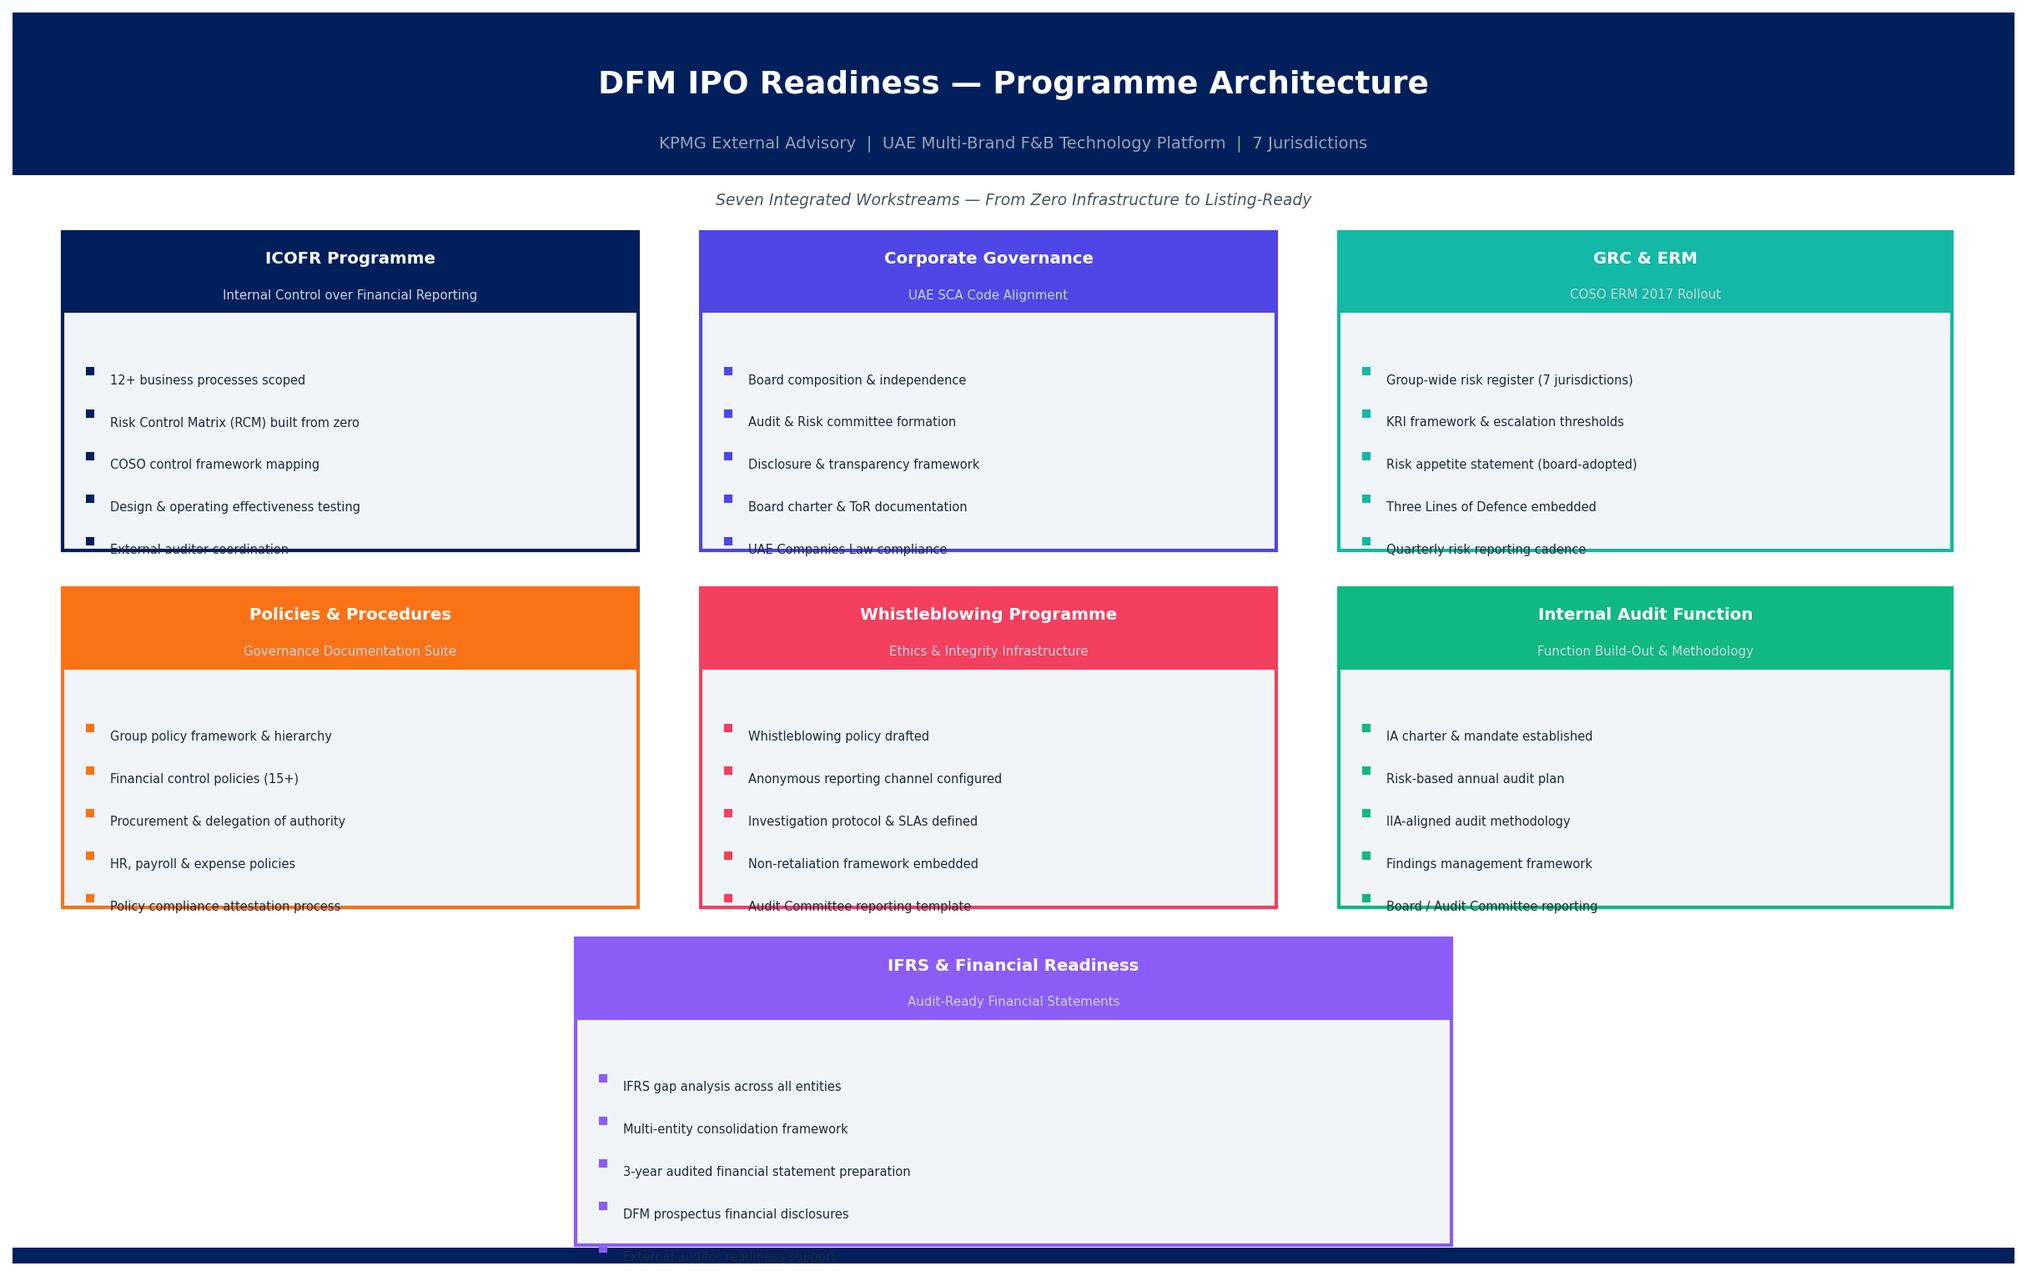
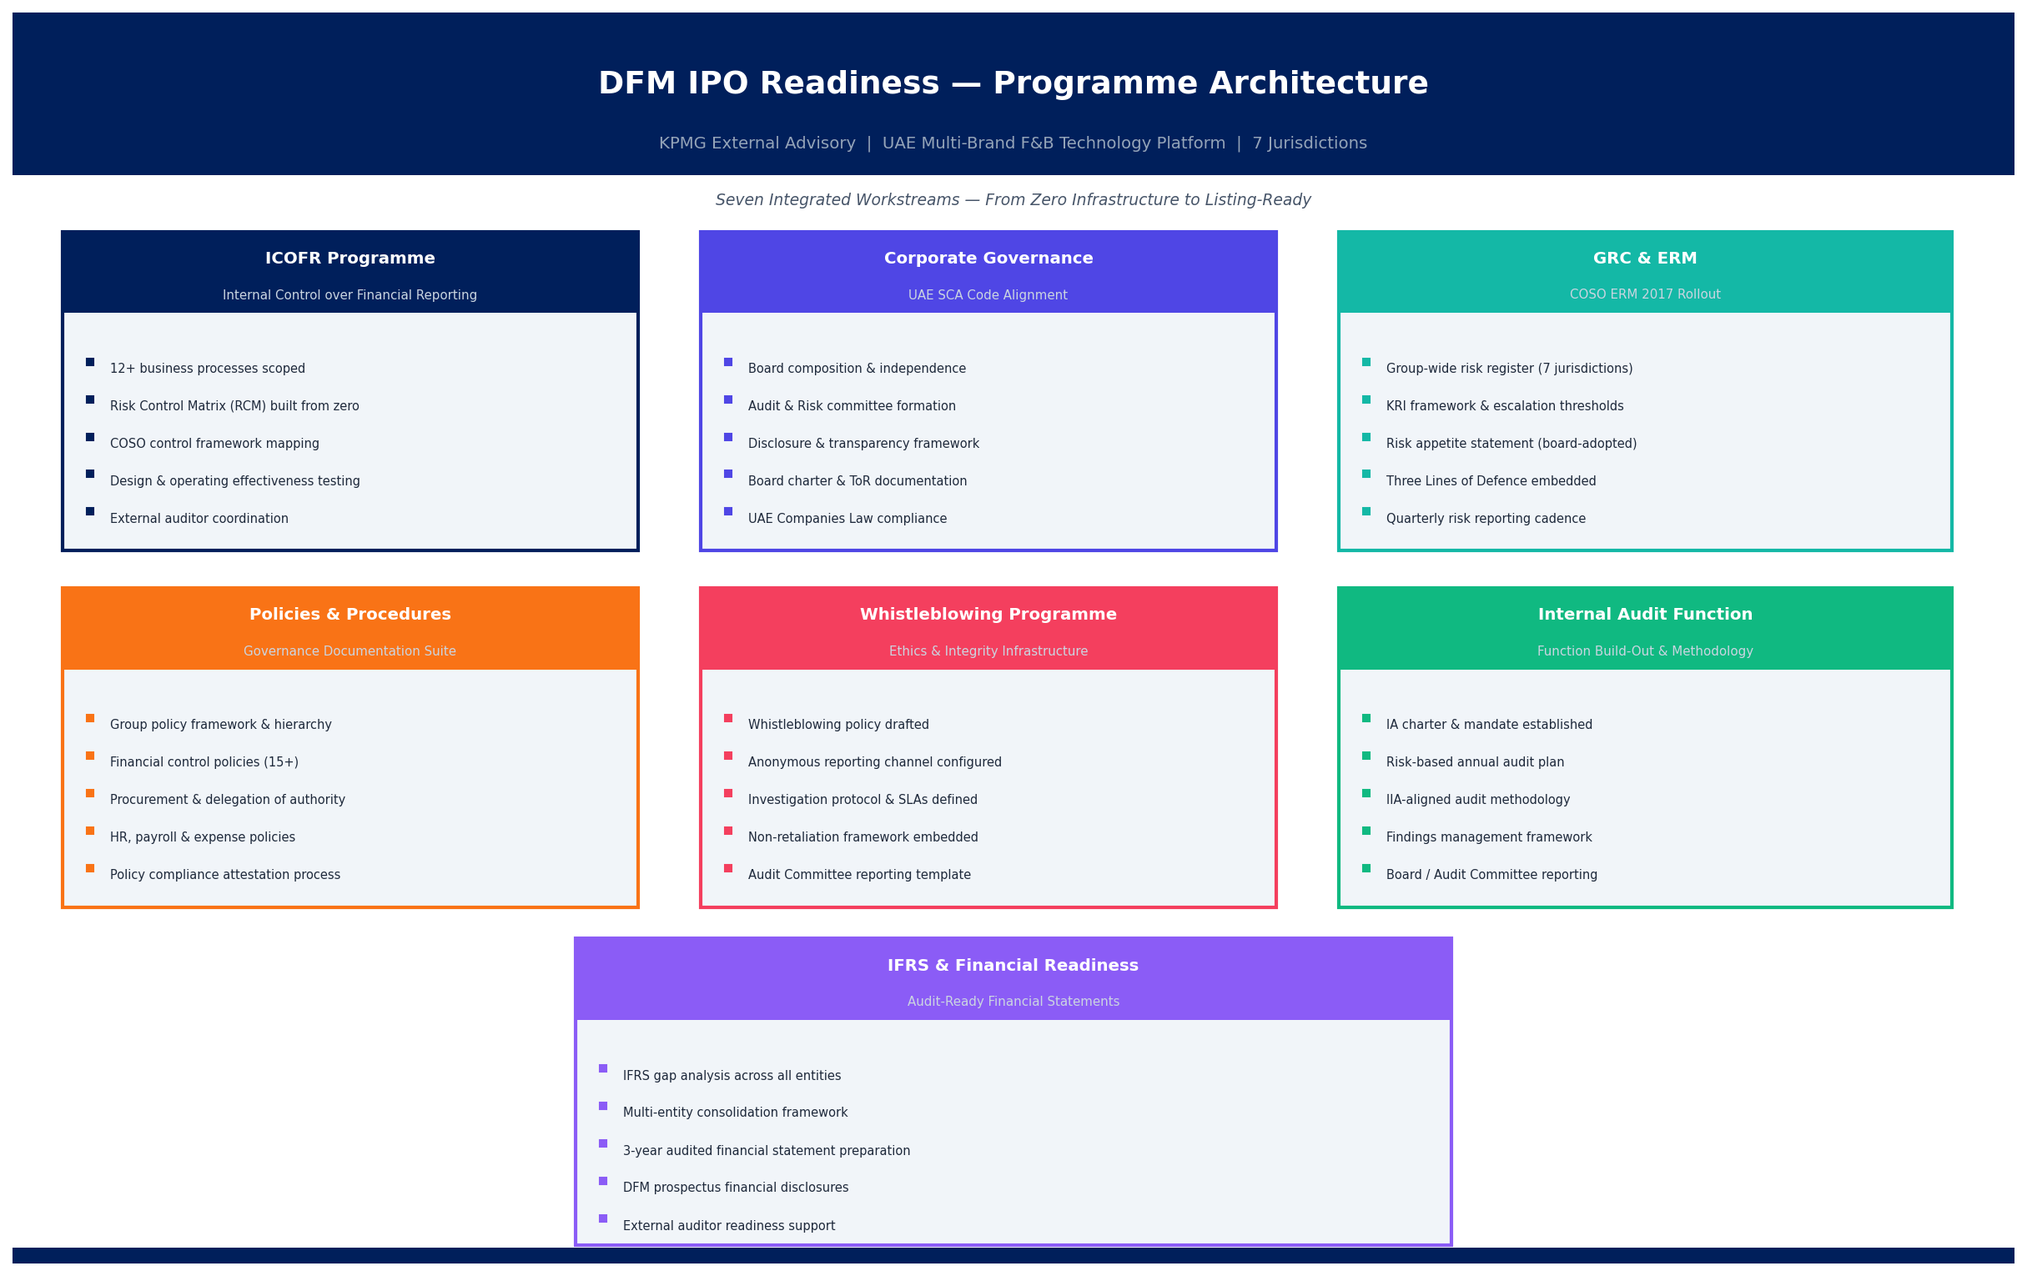
Add engagement duration to all 16 projects; fix chart text overflow
- Add duration field to all projects in projects.js (range: 6 weeks to 24 months)
- Show duration on ProjectCard.jsx (homepage), category listing cards, and
  project detail page sidebar
- Fix programme-architecture.png: tighten bullet spacing (0.30) to keep
  all text inside card containers with bottom clearance

diff --git a/src/data/projects.js b/src/data/projects.js
@@ -4,6 +4,7 @@ export const projects = [
     title: 'KSA Real Estate Fraud Detection (Audit 4.0)',
     description: 'Monitoring SAR 500M+ Capex and OpEx across a mid-sized KSA real estate firm\'s residential and commercial portfolio (client identity withheld under engagement confidentiality). Traditional audits were missing multivariate fraud patterns, ghost tenancies, and VAT leakage in the 15% VAT regime. Deployed an automated Forensic Risk Engine in R to surface the top 1% high-risk transactions and recover SAR 3.2M annually.',
     categories: ['Fraud Forensics'],
+    duration: '3 months',
     impact: 'SAR 3.2M direct revenue recovery — 85% reduction in manual audit review time — 82% decrease in Variation Order threshold evasion',
     techStack: ['R', 'ggplot2', 'StringDist', 'Z-Score Modelling', 'Fuzzy Matching', 'VAT Analytics'],
     image: '/portfolio_my/images/projects/ksa-real-estate-fraud/methodology.png',
@@ -35,6 +36,7 @@ export const projects = [
     title: 'ML-Powered Fraud Detection',
     description: 'A GCC food & beverage platform losing revenue to manager-level fraud across 70+ locations needed a systematic solution that went beyond spot-checking. Built an ML detection engine on 2.3M+ monthly transactions, recovering AED 3.2M annually and reducing incidents by 78%.',
     categories: ['Fraud Forensics'],
+    duration: '5 months',
     impact: '78% Reduction in Fraud Incidents (2.3M monthly transactions)',
     techStack: ['Python', 'scikit-learn', 'Pandas', 'Excel Automation'],
     image: '/portfolio_my/images/projects/fraud-detection/fraud-dashboard.webp',
@@ -52,6 +54,7 @@ export const projects = [
     title: 'DFM IPO Readiness — UAE Multi-Brand F&B Technology Platform',
     description: 'A UAE multi-brand F&B technology platform targeting a Dubai Financial Market listing had no governance infrastructure, no ICOFR framework, no documented policies, and no internal audit function. Engaged as KPMG external advisor to oversee and drive the company\'s end-to-end IPO readiness programme — covering ICOFR build-out, UAE SCA corporate governance alignment, GRC and ERM implementation, policies and procedures development, whistleblowing programme design, and the establishment of an internal audit function from scratch. Programme spanned 7 jurisdictions and ran in parallel with day-to-day commercial operations.',
     categories: ['Corporate Governance', 'Audit Transformation'],
+    duration: '18 months',
     impact: 'Seven integrated workstreams delivered — ICOFR, governance, GRC, policies, whistleblowing, internal audit function, and IFRS readiness — across a 7-jurisdiction, multi-brand platform targeting DFM listing',
     techStack: ['UAE SCA Regulations', 'DFM Listing Rules', 'COSO ICOFR', 'IFRS', 'UAE Companies Law', 'COSO ERM 2017', 'IIA Standards', 'ISO 37002:2021', 'Three Lines of Defence'],
     image: '/portfolio_my/images/projects/dfm-ipo-readiness/programme-architecture.png',
@@ -89,6 +92,7 @@ export const projects = [
     title: 'Audit Findings Management System',
     description: 'A GCC multi-entity operation was running audit findings on manual spreadsheets — no aging visibility, no escalation triggers, no audit committee reporting. Built a Python-based tracking system that replaced the spreadsheets entirely, cut preparation time by 70%, and gave the board real-time remediation status for the first time.',
     categories: ['Audit Transformation'],
+    duration: '6 weeks',
     impact: '70% reduction in audit preparation cycle time — board-ready status reporting automated',
     techStack: ['Python', 'YAML', 'IIA Compliance', 'openpyxl'],
     image: '/portfolio_my/images/projects/audit-tools/findings-tracker.webp',
@@ -106,6 +110,7 @@ export const projects = [
     title: 'Executive Financial Dashboard',
     description: 'Proprietary financial reporting engine providing real-time board-level visibility into capital leaks, variance analysis, and recovery tracking.',
     categories: ['Strategic Dashboards'],
+    duration: '8 weeks',
     impact: '85% automated reporting efficiency achieved',
     techStack: ['xlsxwriter', 'Pandas', 'Power BI', 'Python'],
     image: '/portfolio_my/images/projects/finance-dashboard/executive-dashboard.webp',
@@ -123,6 +128,7 @@ export const projects = [
     title: 'Tadawul IPO Readiness — GCC Premium Brand',
     description: 'Led end-to-end IPO readiness transformation for a GCC premium brand targeting Tadawul listing. Delivered a 24-month programme covering ICOFR implementation, CMA regulatory compliance, governance restructuring, and investor-grade financial documentation.',
     categories: ['Corporate Governance', 'Audit Transformation'],
+    duration: '24 months',
     impact: 'SAR 500M+ capital raise target — full ICOFR certification across 14 business processes',
     techStack: ['COSO ICOFR', 'CMA Regulations', 'Tadawul Listing Rules', 'IFRS', 'Big 4 Co-sourcing'],
     image: '/portfolio_my/images/projects/tadawul-ipo-readiness/icofr-dashboard.svg',
@@ -140,6 +146,7 @@ export const projects = [
     title: 'Enterprise Audit Management Platform',
     description: 'A diversified GCC group ran its audit function across multiple entities with no unified view — audit plans lived in email threads, board reports were built manually each quarter, and no one could answer "what is the current audit status across the group?" Built an integrated platform that gave the audit director, management, and board a single, real-time picture.',
     categories: ['Audit Transformation'],
+    duration: '3 months',
     impact: 'Full audit lifecycle automated across multi-entity operations — from annual plan to board pack, zero manual assembly',
     techStack: ['Python', 'openpyxl', 'python-pptx'],
     image: '/portfolio_my/images/projects/enterprise-audit-tracker/audit-dashboard.webp',
@@ -157,6 +164,7 @@ export const projects = [
     title: 'Food Safety Risk Assessment Framework',
     description: 'Advanced risk management framework for F&B operations with heat mapping, control validation, and compliance tracking across 70+ locations.',
     categories: ['Audit Transformation', 'Enterprise Risk'],
+    duration: '4 months',
     impact: 'End-to-end food safety risk framework deployed across 70+ locations with executive risk reporting',
     techStack: ['Python', 'Risk Analytics', 'Compliance Frameworks'],
     image: '/portfolio_my/images/projects/food-safety-risk/risk-heatmap.webp',
@@ -174,6 +182,7 @@ export const projects = [
     title: 'Forensic Fraud Investigation Toolkit',
     description: 'Professional forensic analysis toolkit for major fraud cases with control failure mapping, evidence tracking, and litigation support documentation.',
     categories: ['Fraud Forensics'],
+    duration: '3 months',
     impact: 'Multi-case fraud investigation support — control failure mapping and litigation-ready documentation',
     techStack: ['Python', 'Excel Automation', 'Forensic Accounting'],
     image: '/portfolio_my/images/projects/fraud-cases/fraud-analysis.webp',
@@ -191,6 +200,7 @@ export const projects = [
     title: 'Multi-Location Audit Compliance System',
     description: 'With 70+ restaurant locations each running their own interpretation of compliance, the group had no way to compare, rank, or hold locations accountable. Built a standardised audit system that replaced inconsistent spot-checks with scored, automated assessments — giving operations management a real compliance league table for the first time.',
     categories: ['Audit Transformation'],
+    duration: '3 months',
     impact: 'Compliance scores comparable across 70+ locations — underperforming sites identified and actioned within audit cycle',
     techStack: ['Python', 'openpyxl', 'Audit Standards'],
     image: '/portfolio_my/images/projects/restaurant-audit/audit-checklist.webp',
@@ -208,6 +218,7 @@ export const projects = [
     title: 'Nomu Parallel Market Listing — KSA Healthcare Subsidiary',
     description: 'As Group Internal Audit Director, led listing readiness for a KSA healthcare subsidiary of a diversified GCC holding group targeting the Tadawul Nomu Parallel Market. Coordinated governance, ICOFR, and regulatory submissions across the holding and subsidiary structures.',
     categories: ['Corporate Governance', 'Audit Transformation'],
+    duration: '9 months',
     impact: 'Subsidiary successfully structured for parallel market listing within group governance framework',
     techStack: ['Tadawul Nomu Rules', 'COSO', 'ICOFR', 'CMA Regulations', 'Holding Group Governance'],
     image: '/portfolio_my/images/projects/nomu-listing-readiness/governance-structure.svg',
@@ -225,6 +236,7 @@ export const projects = [
     title: 'Enterprise Risk Management Programme — Multi-Brand F&B Platform (8 Countries)',
     description: 'Designed and implemented a complete COSO ERM 2017 / ISO 31000 framework for a UAE-based, technology-enabled cloud kitchen platform operating 100+ kitchens across 8 countries. Delivered 12 production-ready tools — risk register, KRI dashboard, BCP tracker, and board reporting suite — alongside a board-adopted risk appetite statement and embedded Three Lines of Defence model.',
     categories: ['Enterprise Risk', 'Corporate Governance'],
+    duration: '8 months',
     impact: '12 tools delivered — 50+ risks mapped, 28 KRIs live, board risk appetite formally adopted across 8 jurisdictions',
     techStack: ['COSO ERM 2017', 'ISO 31000:2018', 'ISO 22301', 'Excel', 'Word', 'Three Lines of Defence'],
     image: '/portfolio_my/images/projects/coso-erm/risk-heatmap.svg',
@@ -262,6 +274,7 @@ export const projects = [
     title: 'Corporate Governance Framework & Manual — KSA Holding Group',
     description: 'As Group Internal Audit Director, led a comprehensive corporate governance upgrade for a KSA multi-sector private holding group. Delivered a full governance manual, board and committee structures, delegation of authority matrix, and Three Lines of Defence model aligned to Saudi Companies Law and international best practice.',
     categories: ['Corporate Governance'],
+    duration: '5 months',
     impact: 'Group-wide governance manual adopted by board — covering holding company and all operating subsidiaries',
     techStack: ['Saudi Companies Law', 'IIA Three Lines Model', 'SOCPA Standards', 'King IV', 'Board Governance'],
     image: '/portfolio_my/images/projects/holding-group-governance/governance-framework.svg',
@@ -279,6 +292,7 @@ export const projects = [
     title: 'ICAEW Audit Report System',
     description: 'An ICAEW-regulated audit team was spending 60–70% of engagement time on workpaper preparation and report formatting rather than actual audit work. Built an automated reporting system aligned to ICAEW standards that cut document preparation time by two-thirds — freeing the team to focus on judgement, not formatting.',
     categories: ['Audit Transformation'],
+    duration: '6 weeks',
     impact: 'Audit documentation time cut by ~65% — ICAEW standards embedded automatically, zero manual formatting',
     techStack: ['Python', 'ICAEW Standards', 'Report Automation'],
     image: '/portfolio_my/images/projects/icaew-audit/audit-report.webp',
@@ -296,6 +310,7 @@ export const projects = [
     title: 'Whistleblowing System Design — UAE Mid-Market Company',
     description: 'A UAE mid-sized company had a whistleblowing channel in name only — no formal policy, no investigation protocol, no controls over who could access submitted reports, and no assurance that reporters were genuinely protected. Engaged to design the system end-to-end: from policy architecture and access governance through to anonymity assurance and organisation-wide rollout.',
     categories: ['Corporate Governance'],
+    duration: '10 weeks',
     impact: 'End-to-end whistleblowing system designed and rolled out — anonymity assured, access controls restructured, investigation framework embedded',
     techStack: ['Whistleblowing Policy Design', 'Investigation Policy', 'Access Control Review', 'UAE Labour Law', 'ISO 37002:2021', 'Three Lines of Defence'],
     image: '/portfolio_my/images/projects/whistleblowing-system-uae/system-architecture.svg',
@@ -323,6 +338,7 @@ export const projects = [
     title: 'Ethics & Compliance Programme — UAE Multi-Country Cloud Kitchen Platform',
     description: 'In-house at a UAE-headquartered, technology-enabled cloud kitchen platform operating across 7 countries, led the end-to-end design and deployment of the group\'s ethics and compliance programme. Scope covered sourcing and onboarding a third-party ethics platform through a structured vendor evaluation, launching three distinct programmes — whistleblowing, executive voluntary disclosures, and annual conflict-of-interest acknowledgements — and embedding awareness across all offices and kitchen operations globally.',
     categories: ['Corporate Governance'],
+    duration: '6 months',
     impact: 'Full ethics programme live across 7 countries — platform sourced and onboarded, three programmes launched, organisation-wide training and awareness embedded',
     techStack: ['EthicsPoint', 'Third-Party Risk Assessment', 'ISO 37002:2021', 'COI Framework Design', 'Multi-Jurisdiction Rollout', 'Training Programme Design'],
     image: '/portfolio_my/images/projects/ethics-compliance-programme/programme-overview.svg',
@@ -352,6 +368,7 @@ export const projects = [
     title: 'Whistleblowing Programme — International QSR Leader',
     description: 'An internationally recognised quick service restaurant operator had no formal mechanism for staff to raise concerns — no policy, no channel, no investigation process. Designed and implemented a pragmatic whistleblowing programme from scratch: an email-based reporting channel backed by a written policy, an investigation framework, and organisation-wide training. The programme demonstrated immediate impact — a report submitted through the channel directly led to the discovery of a SAR 12 million fraud within months of launch.',
     categories: ['Corporate Governance', 'Fraud Forensics'],
+    duration: '8 weeks',
     impact: 'SAR 12M fraud discovered directly through the whistleblowing channel — programme designed and embedded from scratch with no prior infrastructure',
     techStack: ['Whistleblowing Policy Design', 'Investigation Framework', 'Training Programme Design', 'KSA Labour Law', 'Anonymous Reporting Channel'],
     image: '/portfolio_my/images/projects/qs-whistleblowing-programme/programme-design.svg',
@@ -375,6 +392,7 @@ export const projects = [
     title: 'Whistleblowing Awareness Revival — KSA Diversified Conglomerate',
     description: 'A KSA-headquartered diversified conglomerate had a whistleblowing programme on paper but it had become largely unknown to staff — low usage, no active promotion, and no embedding across its portfolio companies. Engaged to diagnose the effectiveness gap and design a comprehensive awareness programme that re-established the channel as a functional, trusted mechanism across the group portfolio.',
     categories: ['Corporate Governance'],
+    duration: '6 weeks',
     impact: 'Dormant whistleblowing programme revived and re-embedded — awareness campaign designed and deployed across group portfolio companies',
     techStack: ['Programme Effectiveness Review', 'Awareness Campaign Design', 'ISO 37002:2021', 'Stakeholder Communication', 'Multi-Entity Rollout'],
     image: '/portfolio_my/images/projects/ethics-awareness-revival/awareness-framework.svg',

diff --git a/src/components/ProjectCard.jsx b/src/components/ProjectCard.jsx
@@ -1,6 +1,6 @@
 import React from 'react';
 import { motion } from 'framer-motion';
-import { ArrowUpRight, ShieldCheck, Database, BrainCircuit, BarChart3, Binary, Landmark, Scale } from 'lucide-react';
+import { ArrowUpRight, ShieldCheck, Database, BrainCircuit, BarChart3, Binary, Landmark, Scale, Clock } from 'lucide-react';
 
 const icons = {
   'Fraud Forensics': <BrainCircuit className="w-8 h-8 text-[#001F5B]" />,
@@ -11,7 +11,7 @@ const icons = {
   'Enterprise Risk': <Scale className="w-8 h-8 text-[#001F5B]" />,
 };
 
-const ProjectCard = ({ id, title, description, category, impact, techStack, image, logo, index }) => {
+const ProjectCard = ({ id, title, description, category, duration, impact, techStack, image, logo, index }) => {
   return (
     <motion.article
       initial={{ opacity: 0, y: 30 }}
@@ -43,9 +43,17 @@ const ProjectCard = ({ id, title, description, category, impact, techStack, imag
               )}
             </div>
           </div>
-          <span className="text-[10px] font-black uppercase tracking-[0.3em] bg-[#001F5B]/10 text-[#001F5B] px-4 py-1.5 rounded-full border border-[#001F5B]/20">
-            {category}
-          </span>
+          <div className="flex flex-col items-end gap-1.5">
+            <span className="text-[10px] font-black uppercase tracking-[0.3em] bg-[#001F5B]/10 text-[#001F5B] px-4 py-1.5 rounded-full border border-[#001F5B]/20">
+              {category}
+            </span>
+            {duration && (
+              <span className="flex items-center gap-1 text-[10px] font-bold text-slate-400 uppercase tracking-widest">
+                <Clock className="w-3 h-3" />
+                {duration}
+              </span>
+            )}
+          </div>
         </div>
 
       <h3 className="text-2xl font-black text-slate-900 mb-4 leading-tight group-hover:text-[#001F5B] transition-colors">

diff --git a/scripts/gen_dfm_infographics.py b/scripts/gen_dfm_infographics.py
@@ -181,11 +181,11 @@ def chart_programme_architecture():
                 ws['sub'], ha='center', va='center',
                 color='#CBD5E1', fontsize=7.2)
 
-        # Bullet items
-        item_y = ws['y'] + ws['h'] - 0.85
+        # Bullet items (0.80 header offset + 5 × 0.30 spacing = 2.30, leaving 0.25 bottom clearance)
+        item_y = ws['y'] + ws['h'] - 0.80
         for item in ws['items']:
-            item_y -= 0.34
-            ax.plot(ws['x'] + 0.22, item_y + 0.07, 's',
+            item_y -= 0.30
+            ax.plot(ws['x'] + 0.22, item_y + 0.06, 's',
                     color=ws['color'], markersize=3.5)
             ax.text(ws['x'] + 0.38, item_y,
                     item, va='center', color='#1E293B',
